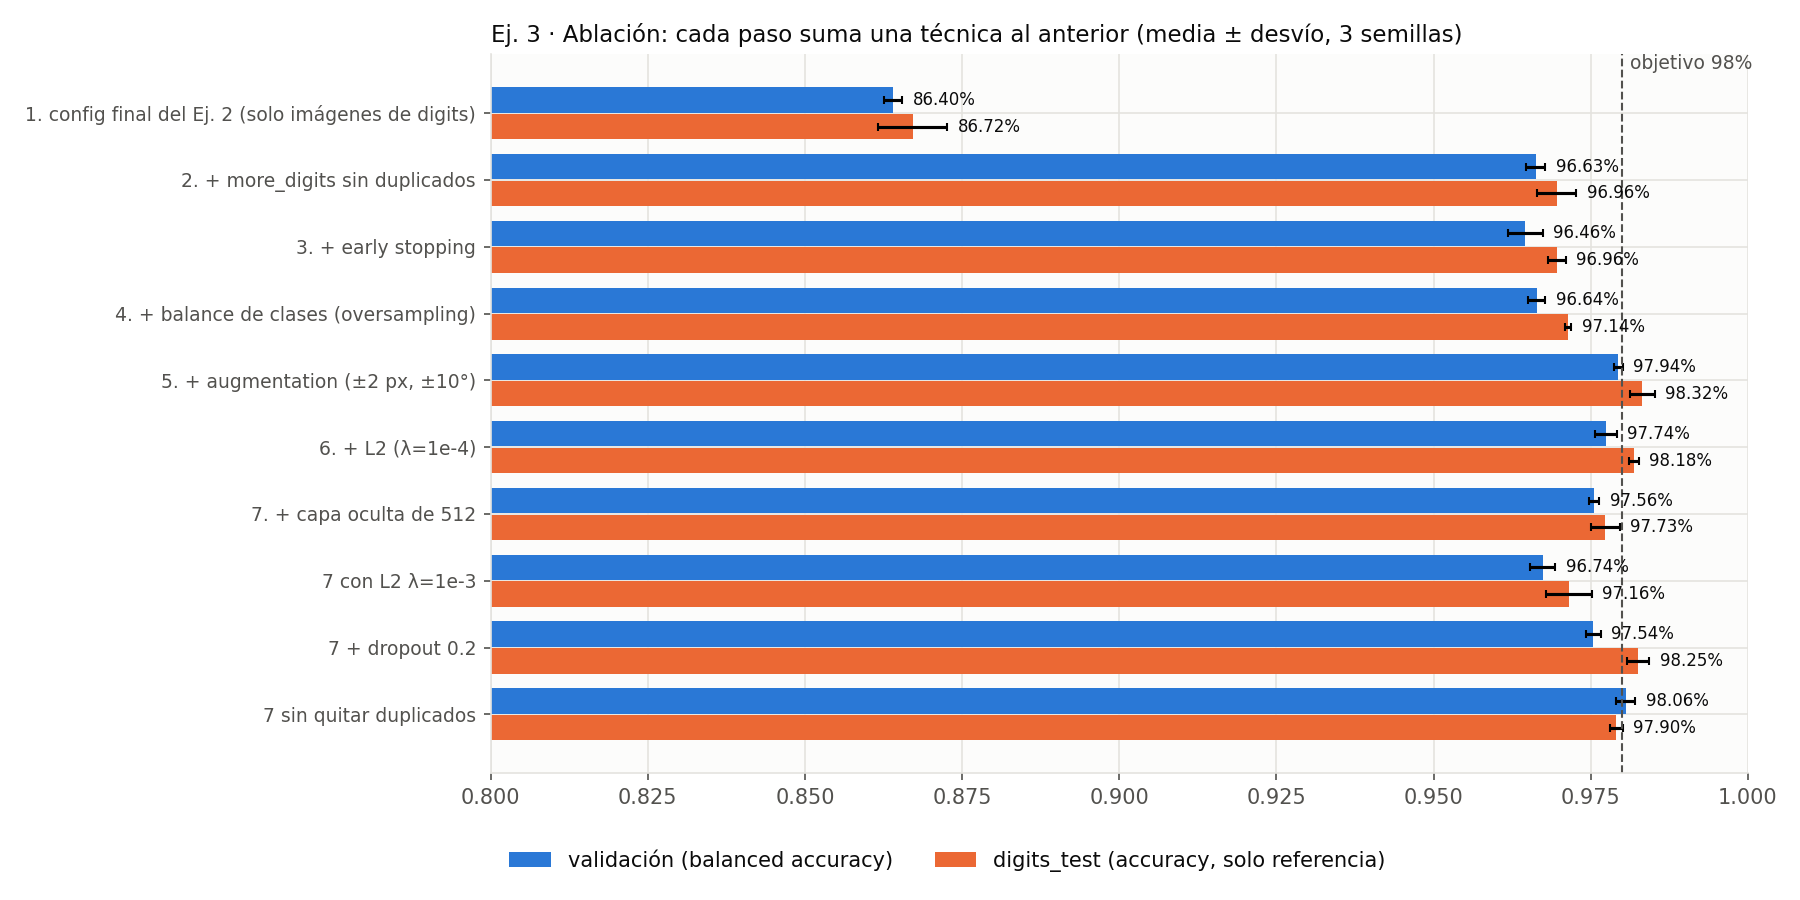
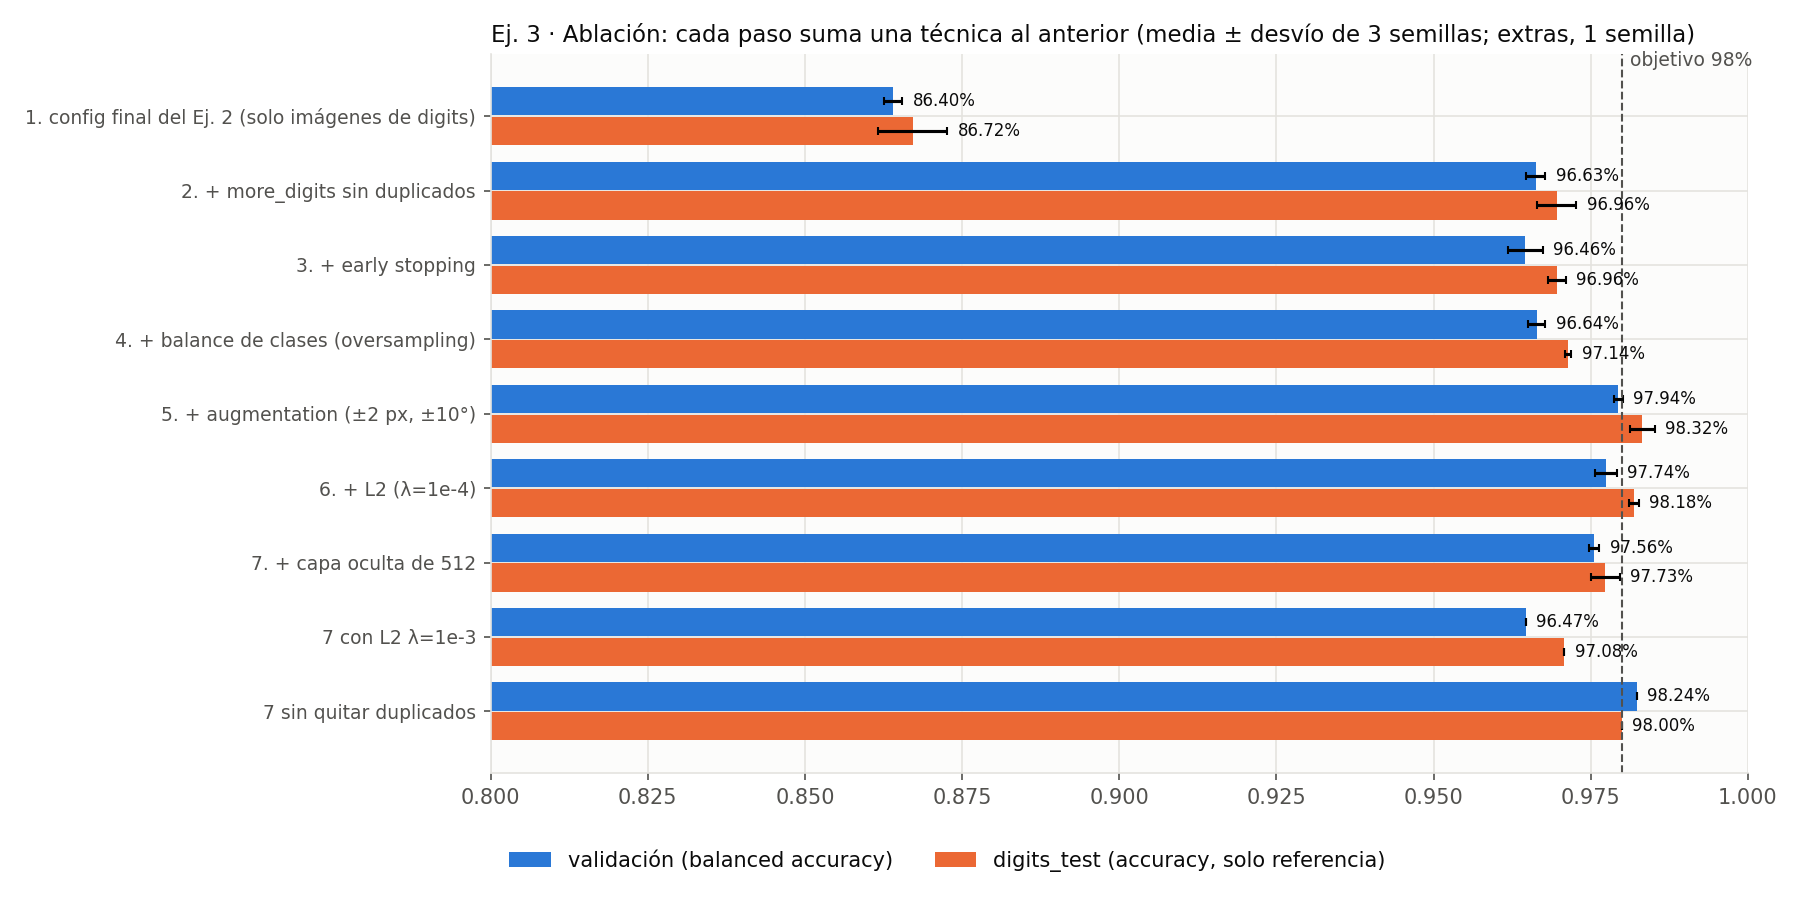
chore: drop dropout extra and run Ej3 extras with one seed

diff --git a/TP3/experimentos.py b/TP3/experimentos.py
@@ -110,15 +110,17 @@ def run_one(args):
 # ---------- barridos ----------
 
 def expand(spec: dict) -> list[dict]:
-    """Config base × (variantes de cada barrido) × semillas."""
+    """Config base × (variantes de cada barrido) × semillas.
+    'seeds_por_grupo' permite correr un grupo con menos semillas (p. ej. los extras del Ej. 3)."""
     runs = []
     for group, variants in spec['sweeps'].items():
+        seeds = spec.get('seeds_por_grupo', {}).get(group, spec['seeds'])
         for variant in variants:
             name = variant.pop('name', None) or ', '.join(f'{k}={v}' for k, v in variant.items())
             variant['name'] = name
             # En las ablaciones cada paso se acumula sobre el anterior
             cfg = spec['base'] | variant
-            for seed in spec['seeds']:
+            for seed in seeds:
                 runs.append(cfg | {'group': group, 'variant': name, 'seed': seed})
     return runs
 
@@ -214,8 +216,13 @@ def main(name: str):
 
 
 def load_runs(name: str) -> list[dict]:
+    """Corridas guardadas que pertenecen a la config actual. Si se saca una variante o una
+    semilla de la config, sus corridas quedan en el .jsonl (por si se vuelven a agregar)
+    pero no entran en el análisis."""
     path = RESULTS / name / 'corridas.jsonl'
-    return [json.loads(line) for line in path.read_text().splitlines() if line]
+    current = {run_key(cfg) for cfg in expand(spec(name))}
+    runs = [json.loads(line) for line in path.read_text().splitlines() if line]
+    return [r for r in runs if run_key(r['config']) in current]
 
 
 def spec(name: str) -> dict:

diff --git a/TP3/analisis_digitos.py b/TP3/analisis_digitos.py
@@ -298,7 +298,7 @@ def ej3_ablation(runs, out):
     ax.invert_yaxis()
     ax.set_xlim(0.8, 1.0)
     ax.legend(frameon=False, labelcolor=INK, loc='upper left', bbox_to_anchor=(0, -0.08), ncol=2)
-    title(ax, 'Ej. 3 · Ablación: cada paso suma una técnica al anterior (media ± desvío, 3 semillas)')
+    title(ax, 'Ej. 3 · Ablación: cada paso suma una técnica al anterior (media ± desvío de 3 semillas; extras, 1 semilla)')
     style(ax)
     save(fig, out, 'ablacion.png')
 
